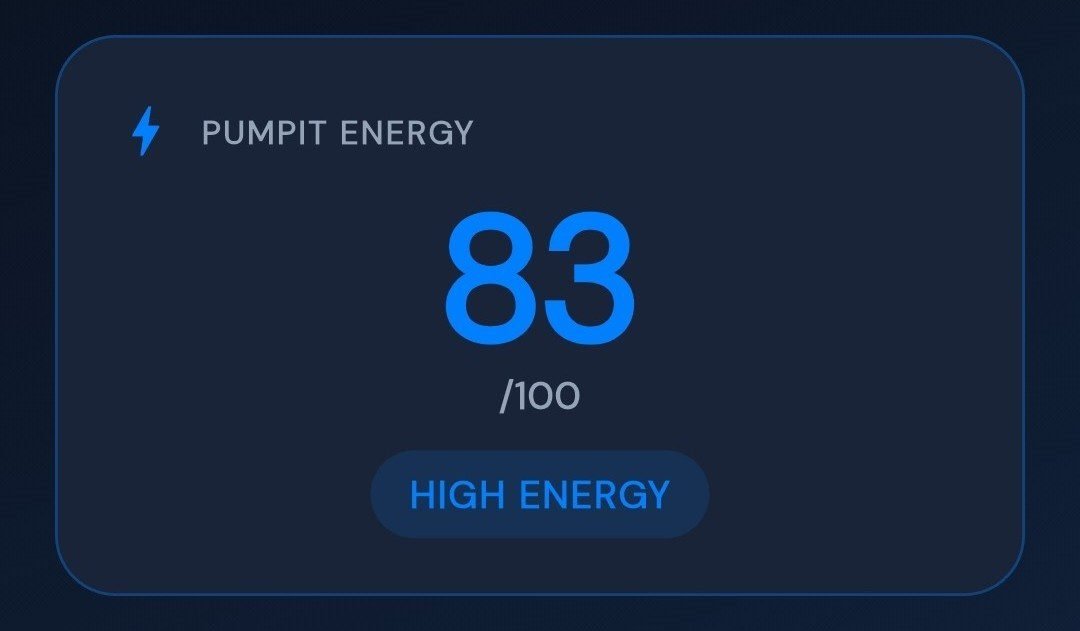
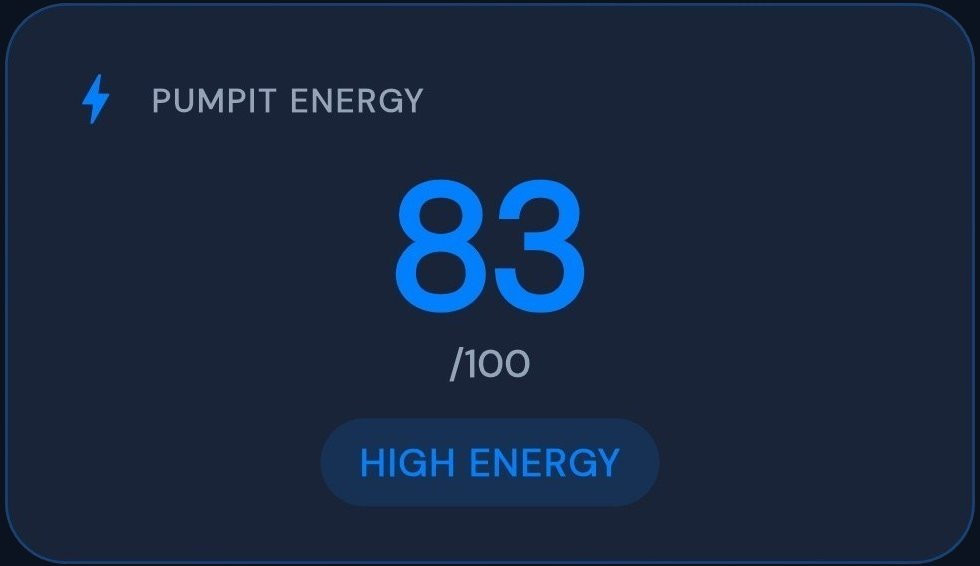
c

diff --git a/css/styles.css b/css/styles.css
@@ -381,6 +381,20 @@ h1 span {
 .store-link {
   display: inline-flex;
   line-height: 0;
+  padding: 6px 10px;
+  border: 1px solid rgba(255, 255, 255, 0.14);
+  border-radius: 10px;
+  background: rgba(8, 14, 26, 0.35);
+  transition: border-color 0.2s ease, box-shadow 0.2s ease;
+}
+
+.store-link:hover,
+.store-link:focus-visible {
+  border-color: var(--azure);
+  box-shadow:
+    0 0 0 1px rgba(0, 127, 255, 0.45),
+    0 0 18px rgba(0, 127, 255, 0.35);
+  outline: none;
 }
 
 .store-link img,
@@ -1585,6 +1599,15 @@ tbody th {
   border: 1px solid var(--border);
   border-radius: 16px;
   background: #121a2b;
+  transition: border-color 0.2s ease, box-shadow 0.2s ease;
+}
+
+.why-row-list li:hover,
+.why-row-list li:focus-within {
+  border-color: var(--azure);
+  box-shadow:
+    0 0 0 1px rgba(0, 127, 255, 0.4),
+    0 0 20px rgba(0, 127, 255, 0.28);
 }
 
 .why-row-list a:hover h3,
@@ -1615,8 +1638,16 @@ tbody th {
 }
 
 .why-row-list li.why-ai {
-  border-color: rgba(0, 127, 255, 0.55);
+  border-color: rgba(255, 255, 255, 0.14);
   background: #101c33;
+}
+
+.why-row-list li.why-ai:hover,
+.why-row-list li.why-ai:focus-within {
+  border-color: var(--azure);
+  box-shadow:
+    0 0 0 1px rgba(0, 127, 255, 0.5),
+    0 0 22px rgba(0, 127, 255, 0.32);
 }
 
 .why-ai-label {
@@ -1797,6 +1828,17 @@ tbody th {
   color: var(--muted);
   font-size: 0.98rem;
   line-height: 1.45;
+}
+
+.shot-wide {
+  width: min(520px, 100%);
+  margin-inline: auto;
+}
+
+.shot-wide img {
+  display: block;
+  width: 100%;
+  height: auto;
 }
 
 .shot-panel {

diff --git a/index.html b/index.html
@@ -160,7 +160,7 @@
               <li>A low score never blocks Start Workout</li>
             </ul>
           </div>
-          <div class="shot-panel">
+          <div class="shot-wide">
             <img src="assets/shots/energy.jpg" width="1080" height="631" alt="PUMPIT Energy card with a score of 83 out of 100, one example." decoding="async">
           </div>
         </article>
